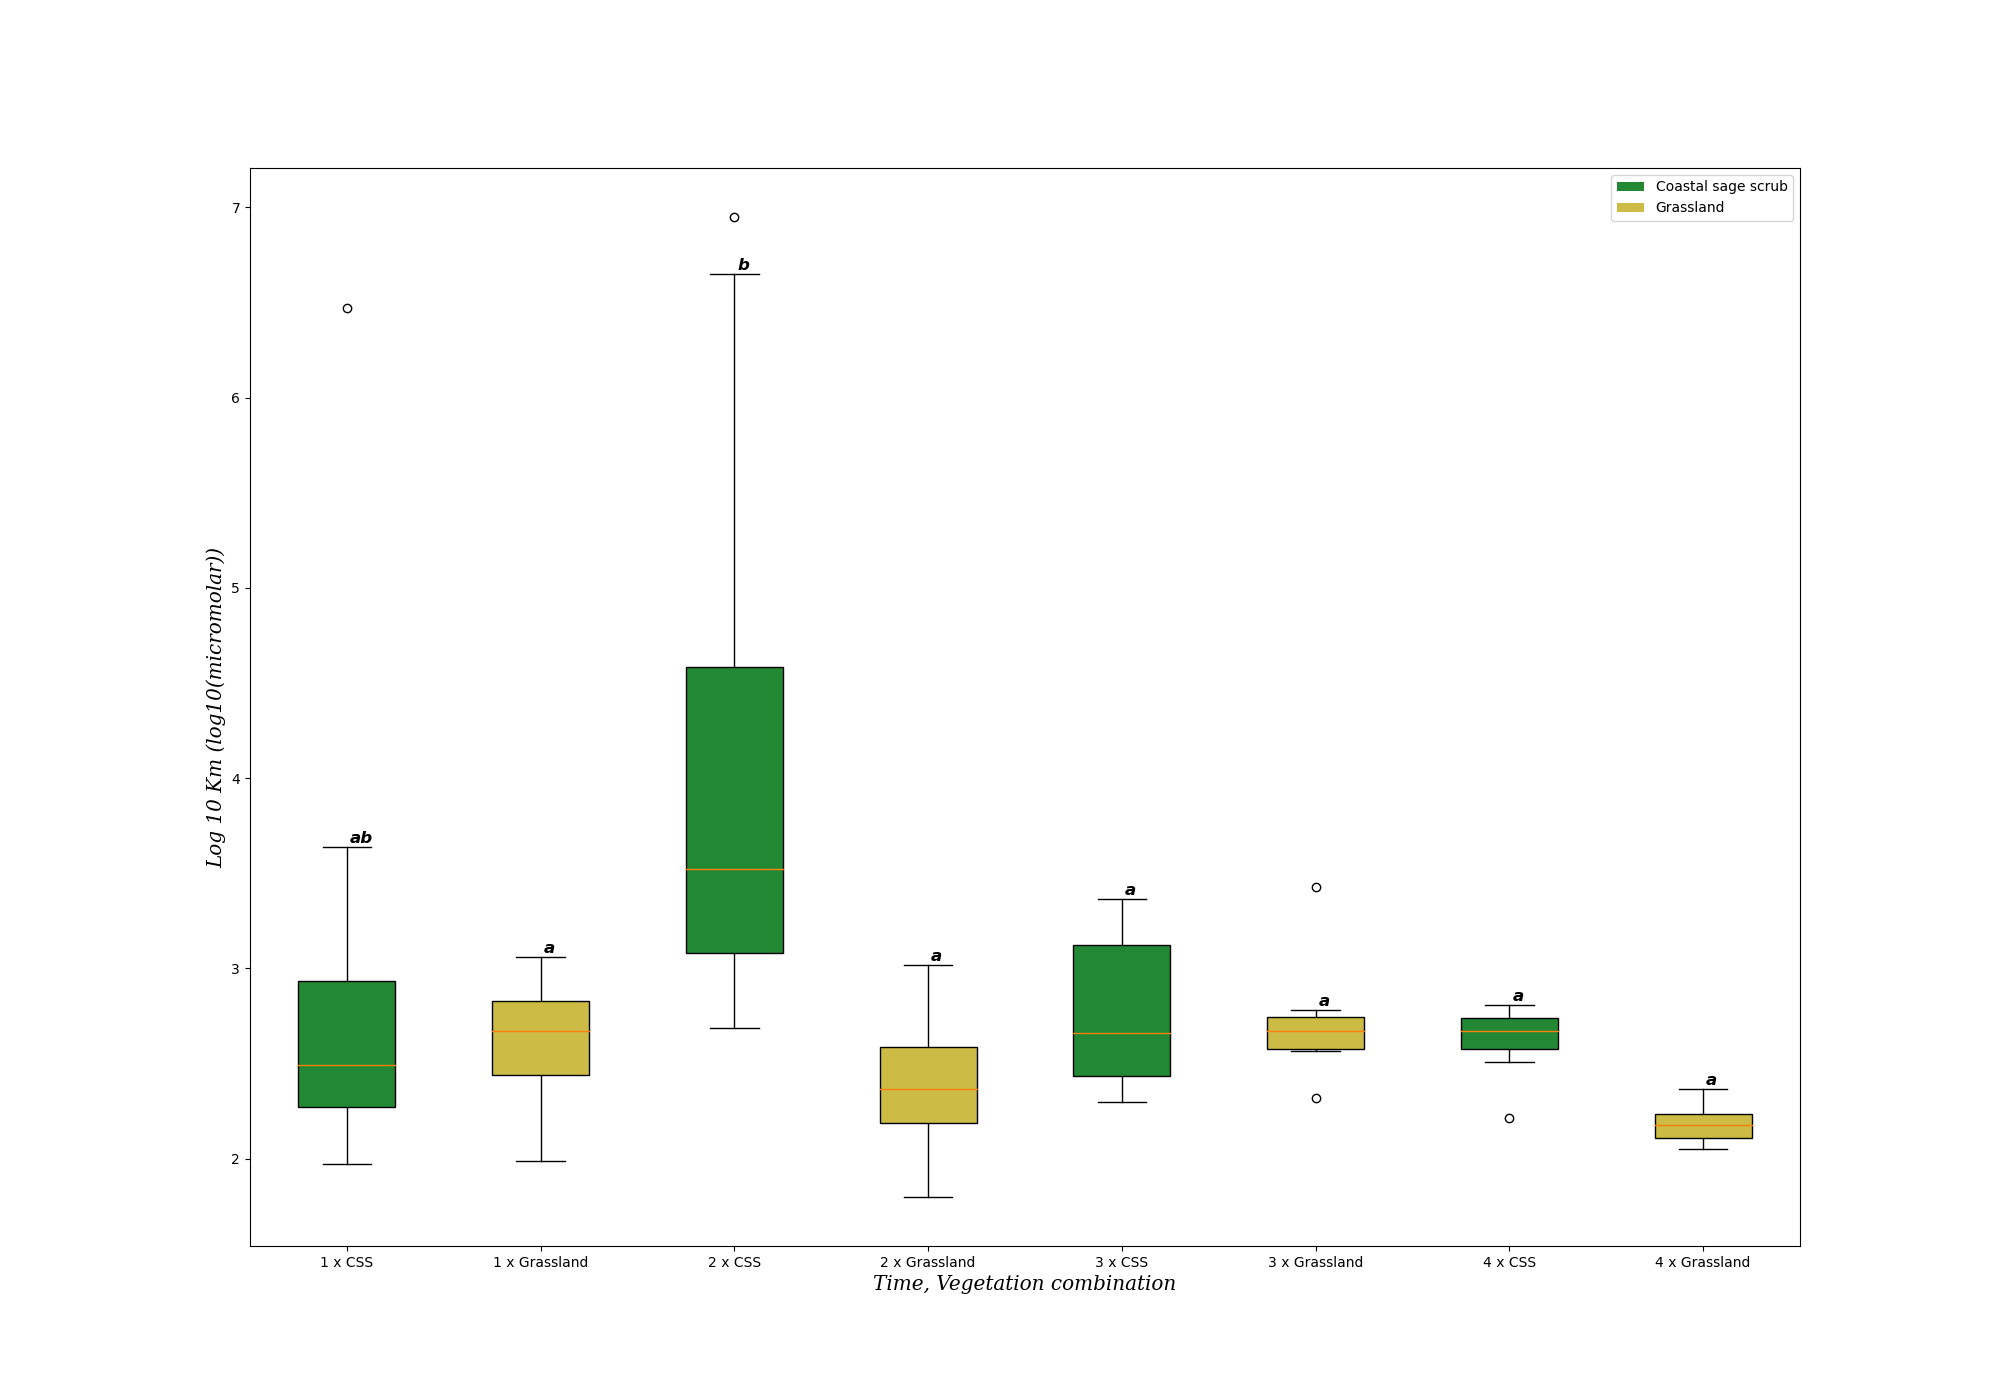
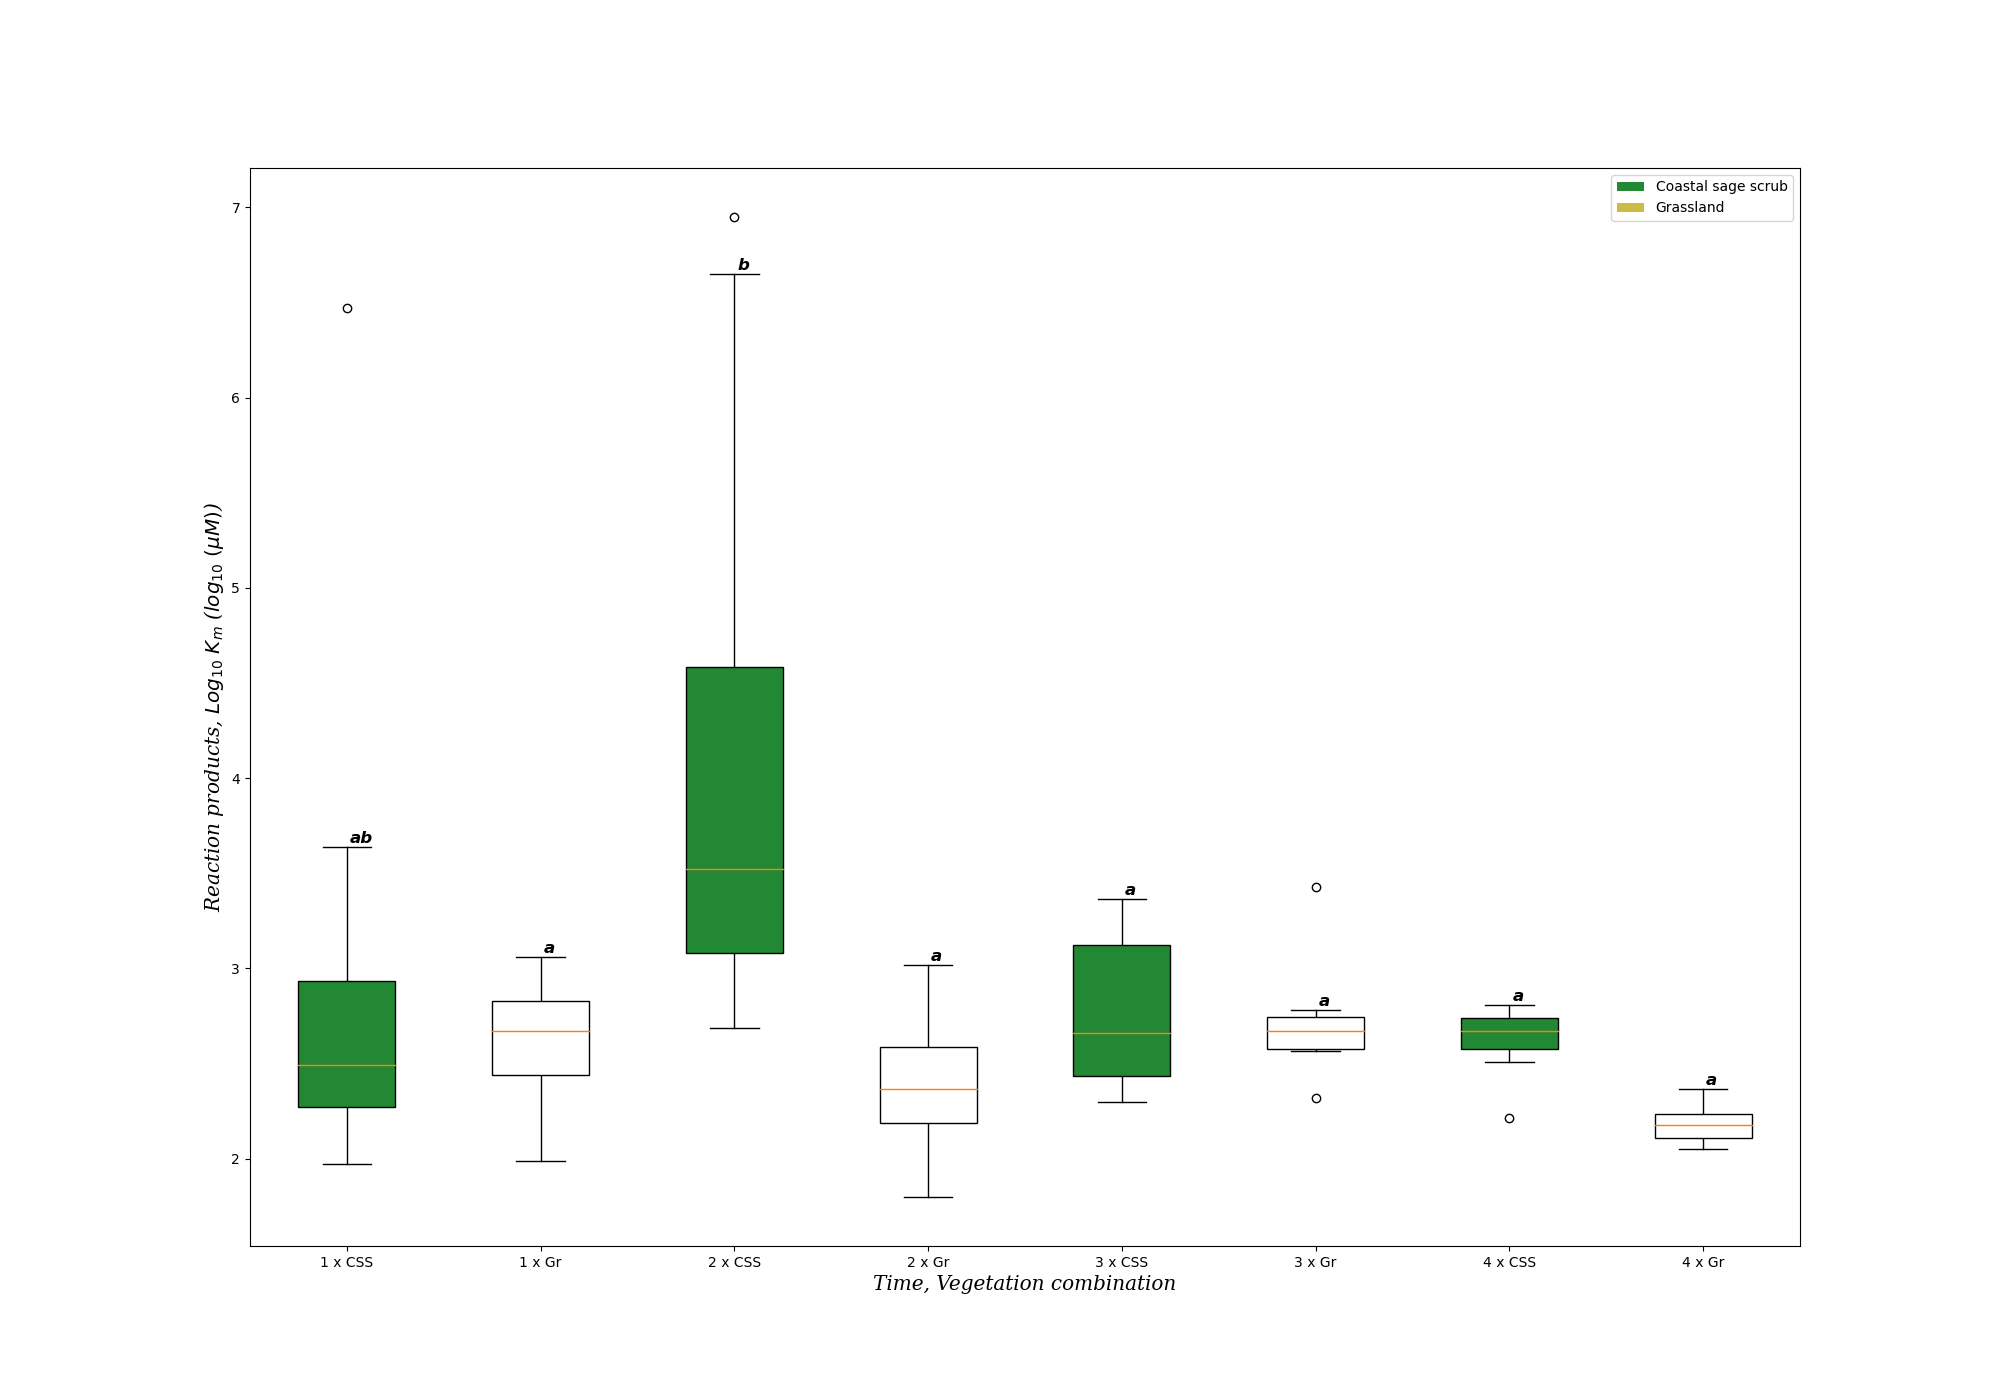
Cosmetic changes
Added a line where isolated parameter values get their columns renamed once their columns consist only of Tukey groups. Other minor changes include changing the name of the giant dictionary above and formatting the y-axis of the boxplots.

diff --git a/boxplots.py b/boxplots.py
@@ -31,47 +31,45 @@ parameters = pd.read_excel(paramPath).drop(columns=["Replicate",
                                                     "Transformation"])
 parameters = parameters.rename(columns={"Precip": "Precipitation"})
 parameters["timePoint"] = parameters["timePoint"].astype(str)
-
-'''I'm changing the time points up. Originally they were recorded as 0, 3, 5,
-and 6, but after briefly looking at a draft of a manuscript by Ashish, I'm
+'''I'm changing the treatments up. Originally timePoint was recorded as 0, 3,
+5, and 6, but after briefly looking at a draft of a manuscript by Ashish, I'm
 changing them so that they are, accordingly, 1, 2, 3, 4 to fall in line with
-his manuscript.
+his manuscript. In addition, I'm shortening some of the treatment names
 '''
-bool0_1 = parameters["timePoint"] == 0  # 0 is the o.g. timepoint, 1 is the new
-parameters.loc[bool0_1, "timePoint"] = 1
-bool3_2 = parameters["timePoint"] == 3  # 3 is the o.g. timepoint, 2 is the new
-parameters.loc[bool3_2, "timePoint"] = 2
-bool5_3 = parameters["timePoint"] == 5  # 5 is the o.g. timepoint, 3 is the new
-parameters.loc[bool5_3, "timePoint"] = 3
-bool6_4 = parameters["timePoint"] == 6  # 6 is the o.g. timepoint, 4 is the new
-parameters.loc[bool6_4, "timePoint"] = 4
-tpDict = {"0": "1", "3": "2", "5": "3", "6": "4",  # timepoints only
-          "0 x Grassland": "1 x Grassland", "3 x Grassland": "2 x Grassland",
-          "5 x Grassland": "3 x Grassland", "6 x Grassland": "4 x Grassland",
-          "0 x CSS": "1 x CSS", "3 x CSS": "2 x CSS", "5 x CSS": "3 x CSS",
-          "6 x CSS": "4 x CSS",  # timePoint x Vegetation
-          "0 x Reduced": "1 x Reduced", "3 x Reduced": "2 x Reduced",
-          "5 x Reduced": "3 x Reduced", "6 x Reduced": "4 x Reduced",
-          "0 x Ambient": "1 x Ambient", "3 x Ambient": "2 x Ambient",
-          "5 x Ambient": "3 x Ambient", "6 x Ambient": "4 x Ambient",
-          # timePoint x Precipitation
-          "0 x Reduced x Grassland": "1 x Grassland x Reduced",
-          "3 x Reduced x Grassland": "2 x Grassland x Reduced",
-          "5 x Reduced x Grassland": "3 x Grassland x Reduced",
-          "6 x Reduced x Grassland": "4 x Grassland x Reduced",
-          "0 x Ambient x Grassland": "1 x Grassland x Ambient",
-          "3 x Ambient x Grassland": "2 x Grassland x Ambient",
-          "5 x Ambient x Grassland": "3 x Grassland x Ambient",
-          "6 x Ambient x Grassland": "4 x Grassland x Ambient",
-          "0 x Reduced x CSS": "1 x CSS x Reduced",
-          "3 x Reduced x CSS": "2 x CSS x Reduced",
-          "5 x Reduced x CSS": "3 x CSS x Reduced",
-          "6 x Reduced x CSS": "4 x CSS x Reduced",
-          "0 x Ambient x CSS": "1 x CSS x Ambient",
-          "3 x Ambient x CSS": "2 x CSS x Ambient",
-          "5 x Ambient x CSS": "3 x CSS x Ambient",
-          "6 x Ambient x CSS": "4 x CSS x Ambient"}  # three-way (PPO Vmax)
-oldTreatments = tpDict.keys()
+renameTreatments = {"0": "1", "3": "2", "5": "3", "6": "4",  # timepoints only
+                    "0 x Grassland": "1 x Gr", "3 x Grassland": "2 x Gr",
+                    "5 x Grassland": "3 x Gr", "6 x Grassland": "4 x Gr",
+                    "0 x CSS": "1 x CSS", "3 x CSS": "2 x CSS",
+                    "5 x CSS": "3 x CSS", "6 x CSS": "4 x CSS",
+                    # timePoint x Vegetation
+                    "0 x Reduced": "1 x R", "3 x Reduced": "2 x R",
+                    "5 x Reduced": "3 x R", "6 x Reduced": "4 x R",
+                    "0 x Ambient": "1 x A", "3 x Ambient": "2 x A",
+                    "5 x Ambient": "3 x A", "6 x Ambient": "4 x A",
+                    # timePoint x Precipitation
+                    "0 x Reduced x Grassland": "1 x V(Gr) x P(R)",
+                    "3 x Reduced x Grassland": "2 x V(Gr) x P(R)",
+                    "5 x Reduced x Grassland": "3 x V(Gr) x P(R)",
+                    "6 x Reduced x Grassland": "4 x V(Gr) x P(R)",
+                    "0 x Ambient x Grassland": "1 x V(Gr) x P(A)",
+                    "3 x Ambient x Grassland": "2 x V(Gr) x P(A)",
+                    "5 x Ambient x Grassland": "3 x V(Gr) x P(A)",
+                    "6 x Ambient x Grassland": "4 x V(Gr) x P(A)",
+                    "0 x Reduced x CSS": "1 x V(CSS) x P(R)",
+                    "3 x Reduced x CSS": "2 x V(CSS) x P(R)",
+                    "5 x Reduced x CSS": "3 x V(CSS) x P(R)",
+                    "6 x Reduced x CSS": "4 x V(CSS) x P(R)",
+                    "0 x Ambient x CSS": "1 x V(CSS) x P(A)",
+                    "3 x Ambient x CSS": "2 x V(CSS) x P(A)",
+                    "5 x Ambient x CSS": "3 x V(CSS) x P(A)",
+                    "6 x Ambient x CSS": "4 x V(CSS) x P(A)",
+                    # three-way (PPO Vmax)
+                    "CSS x Reduced": "V(CSS) x P(R)",
+                    "CSS x Ambient": "V(CSS) x P(A)",
+                    "Grassland x Reduced": "V(Gr) x P(R)",
+                    "Grassland x Ambient": "V(Gr) x P(A)"}
+# Vegetation x Precipitation
+oldTreatments = renameTreatments.keys()
 # This dict records the old time points & treatment combinations as the keys
 # and the new time points & treatment combinations as the values
 # %%
@@ -102,19 +100,18 @@ for index, row in annotationsAP_Km.iterrows():
     else:
         # If the annotation groups contain old time points, then they will be
         # renamed according to the dictionary above
-        newGroup = tpDict[oldGroup]
+        newGroup = renameTreatments[oldGroup]
     annotationsAP_Km.loc[index, "groups"] = newGroup
 
 # (3) Wrangling the parameters dataframe to create columns of Tukey groups
 boolean1 = (parameters.Parameter == "Km") & (parameters.Enzyme == "AP")
 AP_Km = parameters[boolean1]
 paramColumns = AP_Km.columns.tolist()
-for index, row in AP_Km.iterrows():
-    oldGroup = row["timePoint"]
-    if oldGroup in oldTreatments:
-        AP_Km.loc[index, "timePoint"] = tpDict[oldGroup]
 splitAnnotateName = annotationsFileName.split(", ")
 mainEorInteraction = splitAnnotateName[1]
+indeVars = ["timePoint", "Vegetation", "Precipitation"]
+# Making a Tukey Group column and then pivoting it to use its values as the
+# new columns for the isolated parameter values
 if "x" in mainEorInteraction:
     splittedFactors = mainEorInteraction.split(" x ")
     factor1 = splittedFactors[0]
@@ -123,7 +120,7 @@ if "x" in mainEorInteraction:
 elif mainEorInteraction == "Three-way":
     groupSeries = (AP_Km["timePoint"] + " x " + AP_Km["Precipitation"] + " x "
                    + AP_Km["Vegetation"])
-else:
+elif mainEorInteraction in indeVars:
     groupSeries = AP_Km[mainEorInteraction]
 AP_Km["TukeyGroups"] = groupSeries
 colsToRemove = []
@@ -132,6 +129,7 @@ for column in paramColumns:
         colsToRemove.append(column)
 AP_Km = AP_Km.drop(columns=colsToRemove)
 AP_Km = AP_Km.pivot(columns="TukeyGroups", values="value")
+AP_Km = AP_Km.rename(columns=renameTreatments)
 TukeyGroups = annotationsAP_Km["groups"].tolist()
 TukeyLabels = annotationsAP_Km["labels"].tolist()
 
@@ -140,70 +138,70 @@ dataToPlot = []
 for group in TukeyGroups:
     dataColumn = AP_Km[group].dropna()
     dataToPlot.append(dataColumn)
-# py.figure("AP, Km, timePoint x Vegetation", (20, 14))
-# bp = py.boxplot(dataToPlot, patch_artist=True, labels=TukeyGroups)
-# py.ylabel("Log 10 Km (log10(micromolar))", fontfamily="serif",
-#           fontsize="x-large", fontstyle="oblique")
-# py.xlabel("Time, Vegetation combination", fontfamily="serif",
-#           fontsize="x-large", fontstyle="oblique")
-# numOfTukeyGroups = len(TukeyGroups)
+py.figure("AP, Km, timePoint x Vegetation", (20, 14))
+bp = py.boxplot(dataToPlot, patch_artist=True, labels=TukeyGroups)
+y = r"Reaction products, $Log_{10}$ $K_m$ ($log_{10}$ $(\mu M)$)"
+py.ylabel(y, fontfamily="serif", fontsize="x-large", fontstyle="oblique")
+py.xlabel("Time, Vegetation combination", fontfamily="serif",
+          fontsize="x-large", fontstyle="oblique")
+numOfTukeyGroups = len(bp["boxes"])
 # Annotating Tukey labels
-# for i in range(numOfTukeyGroups):
-#     capIndex = (i*2) + 1
-#     topCap = bp["caps"][capIndex]
-#     xCap = topCap.get_xdata()
-#     yCap = topCap.get_ydata()
-#     xMiddle = xCap[0] + ((xCap[1] - xCap[0])/2)
-#     y = yCap[0]
-#     py.annotate(TukeyLabels[i], (xMiddle, y), (3, 4), "data",
-#                 "offset pixels",
-#                 fontsize="large", fontstyle="italic", fontweight="bold")
+for i in range(numOfTukeyGroups):
+    capIndex = (i*2) + 1
+    topCap = bp["caps"][capIndex]
+    xCap = topCap.get_xdata()
+    yCap = topCap.get_ydata()
+    xMiddle = xCap[0] + ((xCap[1] - xCap[0])/2)
+    yVal = yCap[0]
+    py.annotate(TukeyLabels[i], (xMiddle, yVal), (3, 4), "data",
+                "offset pixels",
+                fontsize="large", fontstyle="italic", fontweight="bold")
 # Filling boxes in the boxplot
 CSScolor = (34/255, 136/255, 51/255)  # green
 grassColor = (204/255, 187/255, 68/255)  # yellow
 white = (1, 1, 1)
 ambientHatch = "*"
 reducedHatch = "//"
-# for i in range(numOfTukeyGroups):
-#     series = dataToPlot[i]
-#     group = series.name
-#     patch = bp["boxes"][i]
-#     # Setting colors for vegetation type
-#     if "CSS" in group:
-#         faceColor = CSScolor
-#     elif "Grassland" in group:
-#         faceColor = grassColor
-#     else:
-#         faceColor = white
-#     # Setting fill type for precipitation treatment
-#     if "Ambient" in group:
-#         hatchType = ambientHatch
-#     elif "Reduced" in group:
-#         hatchType = reducedHatch
-#     else:
-#         hatchType = None
-#     patch.set(facecolor=faceColor, hatch=hatchType)
+for i in range(numOfTukeyGroups):
+    series = dataToPlot[i]
+    group = series.name
+    patch = bp["boxes"][i]
+    # Setting colors for vegetation type
+    if "CSS" in group:
+        faceColor = CSScolor
+    elif "Grassland" in group:
+        faceColor = grassColor
+    else:
+        faceColor = white
+    # Setting fill type for precipitation treatment
+    if "Ambient" in group:
+        hatchType = ambientHatch
+    elif "Reduced" in group:
+        hatchType = reducedHatch
+    else:
+        hatchType = None
+    patch.set(facecolor=faceColor, hatch=hatchType)
 # Making a legend
 CSSpatch = Patch(facecolor=CSScolor)
 grassPatch = Patch(facecolor=grassColor)
 ambientLegend = Patch(facecolor=white, hatch=ambientHatch)
 reducedLegend = Patch(facecolor=white, hatch=reducedHatch)
-# if "Vegetation" in mainEorInteraction:
-#     vegPatches = [CSSpatch, grassPatch]
-#     vegLabels = ["Coastal sage scrub", "Grassland"]
-# else:
-#     vegPatches = []
-#     vegLabels = []
-# if "Precipitation" in mainEorInteraction:
-#     pptPatches = [ambientLegend, reducedLegend]
-#     pptLabels = ["Ambient", "Reduced"]
-# else:
-#     pptPatches = []
-#     pptLabels = []
-# patches = vegPatches + pptPatches
-# legendLabels = vegLabels + pptLabels
-# py.legend(handles=patches, labels=legendLabels)
-# py.savefig(APtukeyFolder/"AP, Km, timePoint x Vegetation")
+if "Vegetation" in mainEorInteraction:
+    vegPatches = [CSSpatch, grassPatch]
+    vegLabels = ["Coastal sage scrub", "Grassland"]
+else:
+    vegPatches = []
+    vegLabels = []
+if "Precipitation" in mainEorInteraction:
+    pptPatches = [ambientLegend, reducedLegend]
+    pptLabels = ["Ambient", "Reduced"]
+else:
+    pptPatches = []
+    pptLabels = []
+patches = vegPatches + pptPatches
+legendLabels = vegLabels + pptLabels
+py.legend(handles=patches, labels=legendLabels)
+py.savefig(APtukeyFolder/"AP, Km, timePoint x Vegetation")
 
 
 # (5) Abstracting the process into a few functions
@@ -268,7 +266,7 @@ def annotationFileRename(enzyme, fileName):
         else:
             # If the annotation groups contain old time points, then they will
             # be renamed according to the dictionary above
-            newGroup = tpDict[oldGroup]
+            newGroup = renameTreatments[oldGroup]
         annotations.loc[index, "groups"] = newGroup
     return annotations
 
@@ -303,7 +301,7 @@ def TukeyGroupCols(enzyme, fileName):
     for index, row in paramsOI.iterrows():
         oldGroup = row["timePoint"]
         if oldGroup in oldTreatments:
-            paramsOI.loc[index, "timePoint"] = tpDict[oldGroup]
+            paramsOI.loc[index, "timePoint"] = renameTreatments[oldGroup]
     if "x" in mainEorInteraction:
         splittedFactors = mainEorInteraction.split(" x ")
         factor1 = splittedFactors[0]
@@ -322,6 +320,7 @@ def TukeyGroupCols(enzyme, fileName):
             colsToRemove.append(column)
     paramsOI = paramsOI.drop(columns=colsToRemove)
     paramsOI = paramsOI.pivot(columns="TukeyGroups", values="value")
+    paramsOI = paramsOI.rename(columns=renameTreatments)
     return paramsOI
 
 
@@ -364,10 +363,10 @@ def plotBoxPlot(enzyme, fileName):
     py.figure(figName, (20, 14))
     bp = py.boxplot(dataToPlot, patch_artist=True, labels=TukeyGroups)
     if parameter == "Km":
-        yAxis = "Log 10 Km (log10(micromolar))"
+        y = r"Reaction products, $Log_{10}$ $K_m$ ($log_{10}$ $(\mu M)$)"
     elif parameter == "Vmax":
-        yAxis = "Log 10 Vmax (log10(micromole/g/s))"
-    py.ylabel(yAxis, fontfamily="serif", fontsize="x-large",
+        y = r"Enzyme amount, $Log_{10}$ $V_{max}$ ($log_{10}$ $(\mu mol/g/s)$)"
+    py.ylabel(y, fontfamily="serif", fontsize="x-large",
               fontstyle="oblique")
 
     if mainEorInteraction == "timePoint x Vegetation":
@@ -389,8 +388,8 @@ def plotBoxPlot(enzyme, fileName):
         xCap = topCap.get_xdata()
         yCap = topCap.get_ydata()
         xMiddle = xCap[0] + ((xCap[1] - xCap[0])/2)
-        y = yCap[0]
-        py.annotate(TukeyLabels[i], (xMiddle, y), (3, 4), "data",
+        yVal = yCap[0]
+        py.annotate(TukeyLabels[i], (xMiddle, yVal), (3, 4), "data",
                     "offset pixels", fontsize="large", fontstyle="oblique",
                     fontweight="bold")
 
